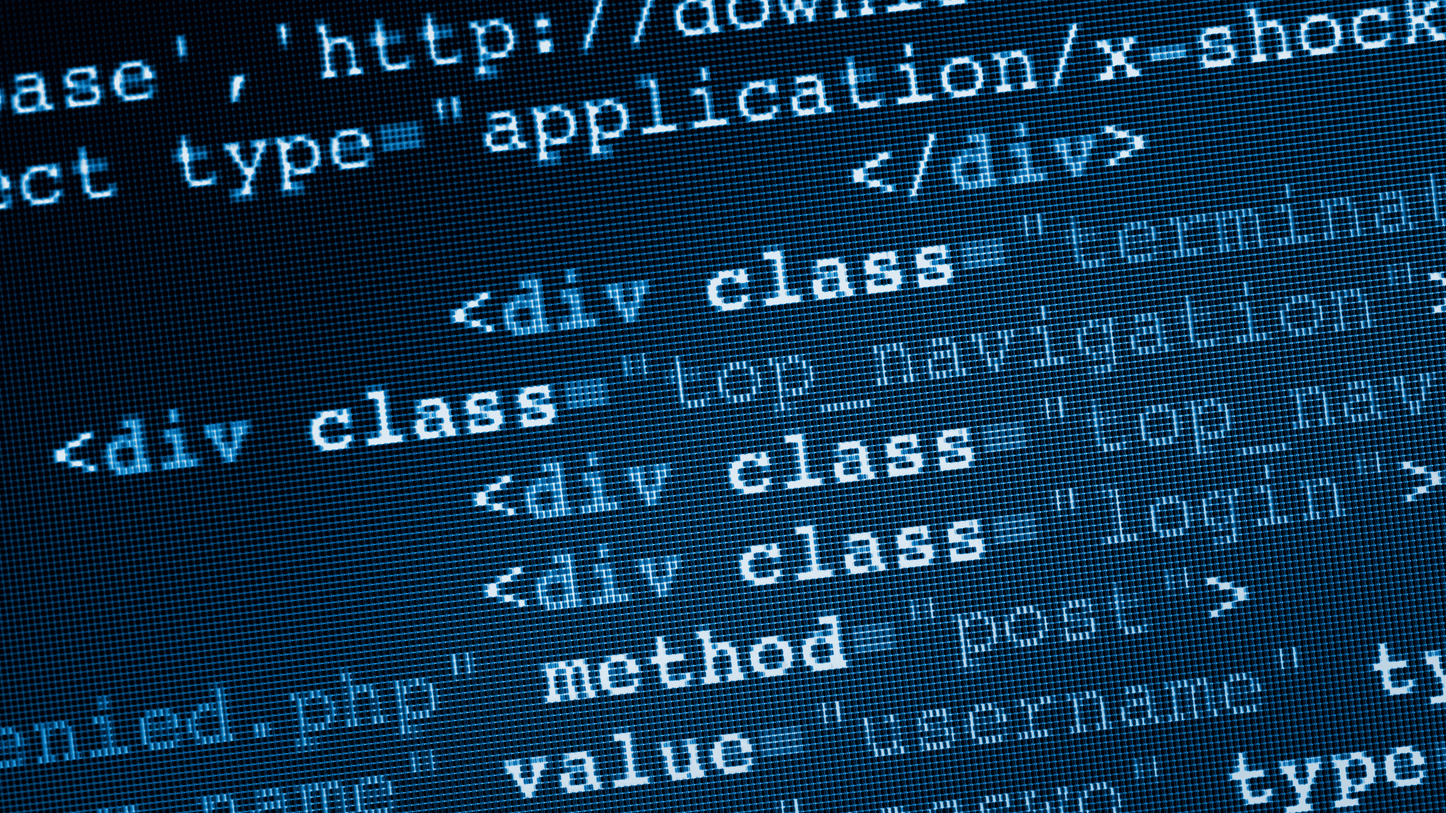
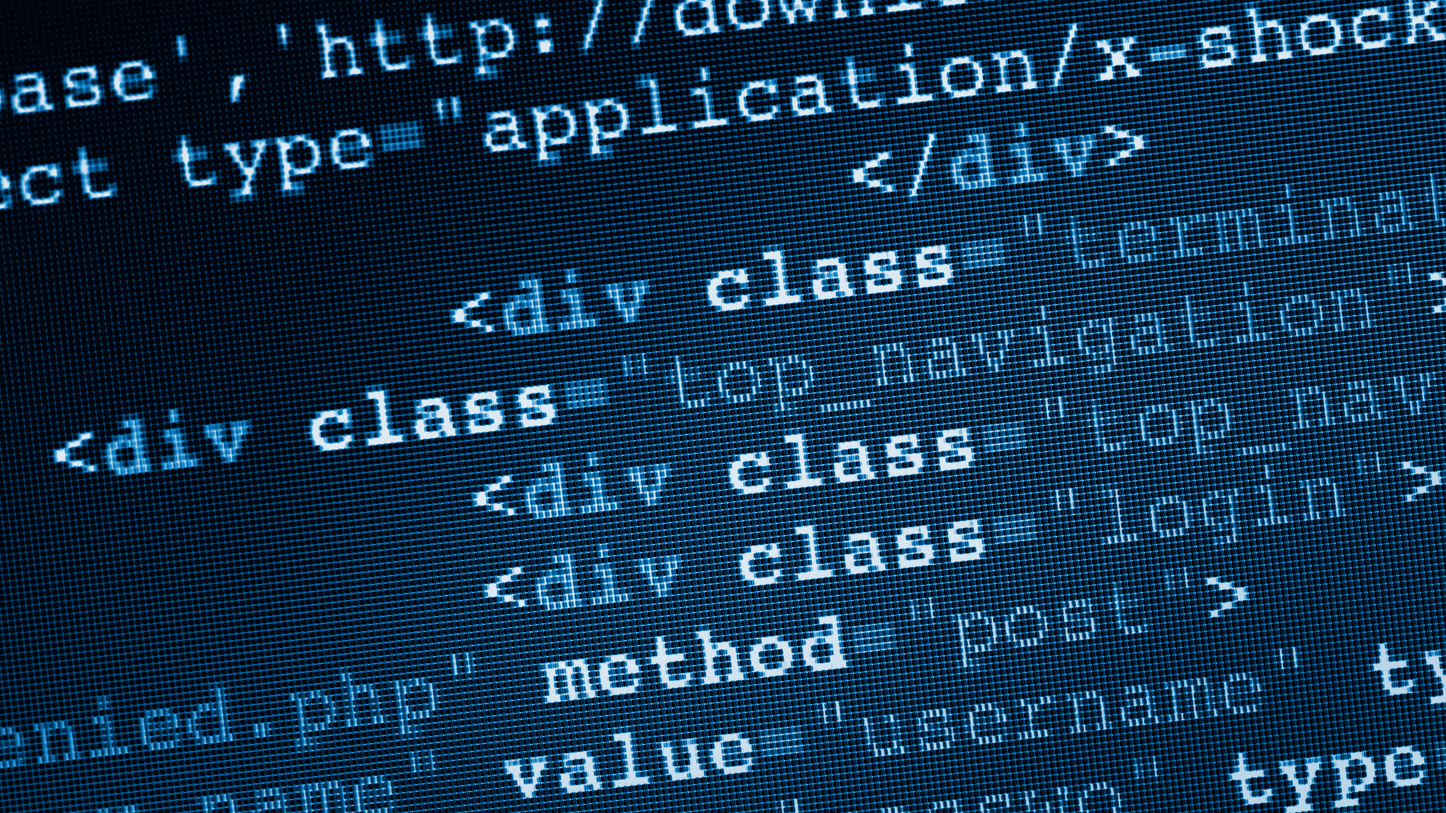
Update profile and services background images; change role description to Frontend Developer

Changed region(s): [[0.9956, 0.8125, 1.0, 0.875]]

diff --git a/src/components/sections/About.jsx b/src/components/sections/About.jsx
@@ -75,7 +75,7 @@ const About = () => {
                   <h3 className="text-base sm:text-lg md:text-xl font-urbanist font-bold text-navDark">
                     Ivi Susej Marie E. Salas
                   </h3>
-                  <p className="text-primary font-semibold text-xs sm:text-sm md:text-base mt-1">Aspiring Web Developer</p>
+                  <p className="text-primary font-semibold text-xs sm:text-sm md:text-base mt-1">Frontend Developer</p>
                 </div>
 
                 {/* Stats */}
